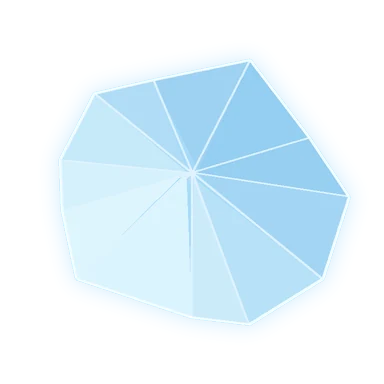
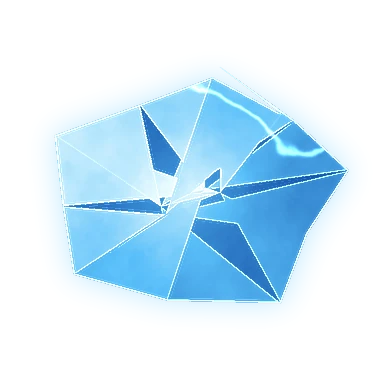
Add files via upload

diff --git a/games/삼국장기/js/skills-new-v14.js b/games/삼국장기/js/skills-new-v14.js
@@ -21,6 +21,36 @@
   ['sparks', 'glow_o', 'glow_b', 'glow_y', 'glow_p', 'shock_o', 'shock_b', 'shock_y', 'shock_p', 'bolt_b', 'bolt_y', 'bolt_p', 'flame_o', 'vignette'].forEach(n => L(n, 'v2_' + n));
   ['ice', 'rock', 'ribbon', 'softflash', 'fissure', 'net'].forEach(n => L(n, 'wl_' + n)); L('billow', 'fx_billow'); L('vapor', 'fx_vapor'); L('fireball', 'fx_fireball'); L('frost', 'env_frost'); L('firewall', 'ult_firewall');
   const ok = im => !!im && (im.tagName === 'CANVAS' ? im.width > 0 : (im.complete && im.naturalWidth > 0));
+  /* ---------- 영상 장면 (사용자 제공 GIF 5개 → 묶음 webp, 원본 3초 · 장면 사이는 부드럽게 섞음) ----------
+   *  cine_*      : 영상 컷인 창용(불투명)       cine_*_glow : 판 위에 겹치는 용(어두운 부분 투명, 빛나는 부분만) */
+  const CLIP = { wasteland: [15, 448, 252], dragon: [20, 448, 252], stormsky: [15, 448, 252], tornado: [15, 448, 252], ice: [20, 448, 252], wasteland_glow: [15, 384, 216], tornado_glow: [15, 384, 216] }, CLEN = 3.0;
+  Object.keys(CLIP).forEach(k => { const i = new Image(); i.decoding = 'async'; i.src = 'assets/images/fx/cine_' + k + '.webp'; CLIP[k].push(i); });
+  /* 게임 시작 후 한가할 때 영상 그림을 미리 풀고 한 번 그려 두어 첫 재생 끊김을 막음 (메모리가 적은 폰은 생략) */
+  setTimeout(() => { if (window.jgPerf && window.jgPerf.lowMem) return; const tiny = document.createElement('canvas'); tiny.width = tiny.height = 2; const tg = tiny.getContext('2d'); Object.keys(CLIP).forEach((k, n) => setTimeout(() => { const i = CLIP[k][3]; const warm = () => { try { tg.drawImage(i, 0, 0, 2, 2); } catch (e) {} }; try { (i.decode ? i.decode() : Promise.resolve()).then(warm, warm); } catch (e) {} }, n * 400)); }, 3500);
+  function clip(g, key, ct, x, y, w, h, a, glowMode) {
+    const c = CLIP[key]; if (!c || a <= .004) return; const [n, FW, FH, im] = c; if (!ok(im)) return;
+    const f = clamp(ct / CLEN * n, 0, n - 1.001), f0 = Math.floor(f), f1 = Math.min(n - 1, f0 + 1), mx = LOW() ? 0 : f - f0, sx = k => (k % 5) * FW, sy = k => ((k / 5) | 0) * FH;
+    g.save();
+    if (glowMode) { g.globalCompositeOperation = 'lighter'; g.globalAlpha = clamp(a * (1 - mx), 0, 1); g.drawImage(im, sx(f0), sy(f0), FW, FH, x, y, w, h); if (mx > .02) { g.globalAlpha = clamp(a * mx, 0, 1); g.drawImage(im, sx(f1), sy(f1), FW, FH, x, y, w, h); } }
+    else { g.globalAlpha = clamp(a, 0, 1); g.drawImage(im, sx(f0), sy(f0), FW, FH, x, y, w, h); if (mx > .02) { g.globalAlpha = clamp(a * mx, 0, 1); g.drawImage(im, sx(f1), sy(f1), FW, FH, x, y, w, h); } }
+    g.restore();
+  }
+  /* 영상 컷인 창: 진영 위에 떠올라 재생되다가 착탄 순간 터지며 사라짐 */
+  function cinePanel(g, M, st, t, tIn, tOut, rgb, draw, burst) {
+    const inQ = outBack(kk(t, tIn, tIn + .3)), outQ = kk(t, tOut, tOut + .28), vis = smooth(kk(t, tIn, tIn + .15)) * (1 - smooth(outQ)); if (vis <= .004) { if (outQ >= 1 && !st.pb) { st.pb = 1; } return; }
+    const W = M.W, H = M.H, pw = Math.min(W * .94, M.camp.w * 1.18), ph = pw * 9 / 16, cx = M.cx, cy = clamp(M.cy, ph / 2 + H * .09, H - ph / 2 - H * .09);
+    /* 화면 어둡게 + 위아래 시네마 띠 */
+    g.save(); g.fillStyle = `rgba(0,0,0,${.5 * vis})`; g.fillRect(0, 0, W, H); const bh = H * .085 * vis; g.fillStyle = '#000'; g.fillRect(0, 0, W, bh); g.fillRect(0, H - bh, W, bh); g.fillStyle = `rgba(${rgb},${.9 * vis})`; g.fillRect(0, bh - 2, W, 2); g.fillRect(0, H - bh, W, 2); g.restore();
+    g.save(); g.translate(cx, cy); g.rotate(-.03 + .03 * (1 - inQ)); const sc = (.78 + .22 * inQ) * (1 + .22 * outQ); g.scale(sc, sc); g.globalAlpha = vis;
+    g.save(); g.beginPath(); g.rect(-pw / 2, -ph / 2, pw, ph); g.clip(); g.fillStyle = '#000'; g.fillRect(-pw / 2, -ph / 2, pw, ph);
+    const kb = 1.04 + .08 * kk(t, tIn, tOut); draw(g, -pw * kb / 2, -ph * kb / 2, pw * kb, ph * kb);
+    if (outQ > 0) { g.fillStyle = `rgba(255,255,255,${.8 * Math.sin(outQ * Math.PI)})`; g.fillRect(-pw / 2, -ph / 2, pw, ph); }
+    g.restore();
+    /* 테두리: 진영 색 이중선 + 빛 */
+    g.lineJoin = 'round'; g.strokeStyle = `rgba(${rgb},1)`; g.lineWidth = 3; g.strokeRect(-pw / 2, -ph / 2, pw, ph); g.globalCompositeOperation = 'lighter'; g.strokeStyle = `rgba(${rgb},.35)`; g.lineWidth = 12; g.strokeRect(-pw / 2, -ph / 2, pw, ph); g.restore();
+    if (outQ > 0 && !st.pb) { st.pb = 1; burst && burst(cx, cy, pw, ph); }
+  }
+
   const tc = {}; function tint(img, key, rgb, a) { const id = key + '|' + rgb + '|' + a; if (tc[id]) return tc[id]; if (!ok(img)) return img; const c = document.createElement('canvas'); c.width = img.naturalWidth || img.width; c.height = img.naturalHeight || img.height; const g = c.getContext('2d'); g.drawImage(img, 0, 0); g.globalCompositeOperation = 'source-atop'; g.fillStyle = `rgba(${rgb},${a})`; g.fillRect(0, 0, c.width, c.height); return (tc[id] = c); }
 
   /* ---------- 소리 ---------- */
@@ -57,23 +87,38 @@
   const SC = {
     /* 🔥 화룡 강림 */
     nuke: { end: 4.6, impact: 1.15, dmg: 'burn',
+      /* 영상 컷인: 화산 황무지 → 불 뿜는 용 (착탄 순간 터짐) */
+      top(g, t, dt, M, st) {
+        cinePanel(g, M, st, t, 0, 1.0, '255,140,50', (gg, x, y, w, h) => { const xf = smooth(kk(t, .15, .45)); clip(gg, 'wasteland', .9 + t * 1.2, x, y, w, h, 1 - xf); clip(gg, 'dragon', .35 + t * 1.9, x, y, w, h, xf); },
+          (cx, cy, pw, ph) => { for (let i = 0; i < 36; i++) sp(st.P, { kind: 'spark', cell: pick([0, 6, 7]), x: cx + rnd(-.5, .5) * pw, y: cy + rnd(-.5, .5) * ph, vx: rnd(-1, 1) * M.S * .7, vy: rnd(-1, .3) * M.S * .6, ay: M.S * .8, size: M.S * rnd(.012, .03), life: rnd(.6, 1.2), rgb: pick(['255,150,60', '255,210,120']) }); noise(.6, 'lowpass', 2400, 120, .2); });
+      },
       frame(g, t, dt, M, st) {
         const C = M.camp, S = M.S, out = 1 - smooth(kk(t, 3.9, 4.6));
+        /* 영상의 용암 균열이 진영 위로 번지고 터짐 (어두운 부분은 투명) */
+        if (t > 1.0) { const a = smooth(kk(t, 1.0, 1.4)) * out, wv = C.w * 1.32, hv = Math.max(wv * 9 / 16, C.h * 1.25), ry = C.y0 + C.h / 2 - hv / 2, ct = .95 + (t - 1.0) * .85, x0 = C.x0 + C.w / 2 - wv / 2; clip(g, 'wasteland_glow', ct, x0, ry, wv, hv, a, true); if (!LOW()) clip(g, 'wasteland_glow', ct, x0, ry, wv, hv, a * .7, true); glow(g, 'glow_o', M.cx, M.cy, S * 1.2, .25 * a); }
         wash(g, M, '30,6,0', .4 * smooth(kk(t, 0, .4)) * out); vig(g, M, '255,90,20', .5 * out);
         /* 용의 경로: 하늘 위에서 S자로 휘감아 내려와 진영을 가로지름 */
         const path = u => { const x = M.br.left + M.br.width * (1.15 - 1.3 * u), y = C.y0 + C.h * (.5 + .35 * Math.sin(u * 5.5)) - (1 - smooth(kk(u, 0, .35))) * M.H * .6; return [x, y]; };
-        const hr = clamp((t - .1) / 2.6, 0, 1.2), head = hr + .075 * Math.sin(Math.min(hr, 1) * TAU), segs = LOW() ? 14 : 24;
+        const hr = clamp((t - .55) / 2.3, 0, 1.2), head = hr + .075 * Math.sin(Math.min(hr, 1) * TAU), segs = LOW() ? 14 : 24;
         if (ok(IM.scale)) for (let i = segs; i >= 1; i--) { const u = head - i * .028; if (u < 0 || u > 1.05) continue; const [x, y] = path(u), s = S * (.13 - i * .0035) * (1 + .1 * Math.sin(t * 9 + i)); img(g, IM.scale, x, y, s, s, out, t * 3 + i, i % 3 === 0); if (i % 4 === 0 && Math.random() < .5) sp(st.P, { kind: 'spark', cell: pick([0, 6, 7]), x, y, vx: rnd(-40, 40), vy: -rnd(30, 120), size: S * rnd(.012, .028), life: rnd(.6, 1.2), rgb: '255,150,60' }); }
         if (head <= 1.05 && ok(IM.dragonhead)) { const [x, y] = path(head), [x2, y2] = path(Math.max(0, head - .02)), ang = Math.atan2(y - y2, x - x2), z = S * .56; glow(g, 'glow_o', x, y, z * 1.6, .7 * out); g.save(); g.translate(x, y); g.rotate(ang); if (Math.cos(ang) < 0) g.scale(1, -1); g.globalAlpha = out; g.drawImage(IM.dragonhead, -z * .62, -z * .4, z, z * .667); g.restore();
           /* 화염 브레스: 진영을 향해 */
           if (t > .85 && t < 2.6) { const bx = x + Math.cos(ang) * z * .45, by = y + Math.sin(ang) * z * .3, ta = Math.atan2(C.y0 + C.h * .55 - by, (M.cx + (x - M.cx) * .2) - bx); for (let i = 0; i < (LOW() ? 2 : 4); i++) sp(st.P, { kind: 'billow', cell: (Math.random() * 4) | 0, x: bx, y: by, vx: Math.cos(ta + rnd(-.25, .25)) * S * rnd(.7, 1.2), vy: Math.sin(ta + rnd(-.25, .25)) * S * rnd(.7, 1.2), drag: .96, size: S * rnd(.07, .13), grow: 1.3, life: rnd(.55, .9), a: .7, rgb: pick(['255,150,40', '255,90,20', '255,190,90']), add: true });
             if (Math.random() < .6) st.burnPts.push([bx + Math.cos(ta) * S * .6, by + Math.sin(ta) * S * .6]); } }
-        if (ok(IM.firewall) && t > 1.0) { const a = smooth(kk(t, 1.0, 1.3)) * (1 - smooth(kk(t, 2.8, 3.8))); g.save(); g.beginPath(); g.rect(C.x0, C.y0 - C.h * .5, C.w, C.h * 1.5); g.clip(); g.globalCompositeOperation = 'lighter'; g.globalAlpha = a * .9; const off = (t * 220) % C.w; g.drawImage(IM.firewall, C.x0 - off, C.y0 + C.h * .25, C.w, C.h * .75); g.drawImage(IM.firewall, C.x0 - off + C.w, C.y0 + C.h * .25, C.w, C.h * .75); g.restore(); }
+        if (ok(IM.firewall) && t > 1.0) { const a = .6 * smooth(kk(t, 1.0, 1.3)) * (1 - smooth(kk(t, 2.8, 3.8))); g.save(); g.beginPath(); g.rect(C.x0, C.y0 - C.h * .5, C.w, C.h * 1.5); g.clip(); g.globalCompositeOperation = 'lighter'; g.globalAlpha = a * .9; const off = (t * 220) % C.w; g.drawImage(IM.firewall, C.x0 - off, C.y0 + C.h * .25, C.w, C.h * .75); g.drawImage(IM.firewall, C.x0 - off + C.w, C.y0 + C.h * .25, C.w, C.h * .75); g.restore(); }
         if (t > this.impact) { const q = t - this.impact; flash(g, M.cx, M.cy, S * 2.4, '255,170,80', (1 - smooth(kk(q, 0, .5))) * 1.1); shock(g, 'shock_o', M.cx, M.cy, S * 1.6, kk(q, 0, 1.1), .9, .55); if (ok(IM.fireball)) { const fs = S * (.3 + .4 * outCubic(kk(q, 0, .8))), f = Math.min(7, (kk(q, 0, 1.4) * 8) | 0); g.save(); g.globalAlpha = 1 - smooth(kk(q, 1.0, 1.6)); g.drawImage(IM.fireball, (f % 4) * 256, ((f / 4) | 0) * 256, 256, 256, M.cx - fs / 2, M.cy - fs * .6, fs, fs); g.restore(); } }
       } },
     /* ⛈ 뇌신 폭풍 */
     meteor: { end: 5.4, impact: 1.5, dmg: 'lichten',
+      /* 영상 컷인: 폭풍 하늘에 번개 → 번개 토네이도 (삼중 낙뢰와 함께 터짐) */
+      top(g, t, dt, M, st) {
+        cinePanel(g, M, st, t, 0, 1.3, '170,200,255', (gg, x, y, w, h) => { const xf = smooth(kk(t, .75, 1.05)); clip(gg, 'stormsky', t * 1.55, x, y, w, h, 1 - xf); clip(gg, 'tornado', .5 + (t - .75) * 1.6, x, y, w, h, xf); const lt = kk(t, .38, .6); if (lt > 0 && lt < 1) { gg.save(); gg.globalCompositeOperation = 'lighter'; gg.fillStyle = `rgba(200,215,255,${.45 * Math.sin(lt * Math.PI)})`; gg.fillRect(x, y, w, h); gg.restore(); } },
+          (cx, cy, pw, ph) => { for (let i = 0; i < 30; i++) sp(st.P, { kind: 'spark', cell: pick([3, 4, 5]), x: cx + rnd(-.5, .5) * pw, y: cy + rnd(-.5, .5) * ph, vx: rnd(-1, 1) * M.S * .8, vy: rnd(-1, .4) * M.S * .6, ay: M.S, size: M.S * rnd(.01, .026), life: rnd(.5, 1), rgb: '190,215,255' }); });
+        if (t > .38 && !st.pl) { st.pl = 1; noise(.35, 'highpass', 5000, 800, .12); tone('sawtooth', 140, 40, .7, .08); }
+      },
       frame(g, t, dt, M, st) {
+        /* 영상의 번개 토네이도가 진영 한가운데 솟음 (어두운 부분은 투명) */
+        if (t > 1.25) { const C2 = M.camp, a = smooth(kk(t, 1.25, 1.7)) * (1 - smooth(kk(t, 4.2, 5.0))), wv = C2.w * 1.25, hv = wv * 9 / 16 * 1.7, x = C2.x0 + C2.w / 2 - wv / 2 + Math.sin(t * 1.3) * C2.w * .04, y = C2.y0 + C2.h * 1.0 - hv, ct = .6 + (t - 1.25) * .8; glow(g, 'glow_b', x + wv / 2, y + hv * .55, M.S * 1.1, .35 * a); clip(g, 'tornado_glow', ct, x, y, wv, hv, a, true); if (!LOW()) clip(g, 'tornado_glow', ct, x, y, wv, hv, a * .75, true); }
         const C = M.camp, S = M.S, out = 1 - smooth(kk(t, 4.6, 5.4));
         wash(g, M, '6,8,24', .55 * smooth(kk(t, 0, .5)) * out); vig(g, M, '90,120,255', .45 * out);
         if (ok(IM.billow)) for (let i = 0; i < (LOW() ? 5 : 9); i++) { const u = ((i * .137 + t * .03) % 1.2) - .1, x = M.br.left + M.br.width * u, y = M.br.top + S * (.04 + .05 * Math.sin(i * 1.7 + t)), z = S * (.45 + .2 * Math.sin(i)); g.save(); g.globalAlpha = .85 * smooth(kk(t, 0, .6)) * out; g.drawImage(tint(IM.billow, 'st', '40,40,70', .85), (i % 4) * 256, 0, 256, 256, x - z / 2, y - z / 2, z, z); g.restore(); }
@@ -102,14 +147,21 @@
           flash(g, M.cx, M.cy, S * 2.2, '255,150,70', (1 - smooth(kk(q, 0, .5))) * .9); shock(g, 'shock_o', M.cx, M.cy, S * 1.9, kk(q, 0, 1.1), .85, .5); }
       } },
     /* 🧊 빙하 붕괴 (원본 함수를 대체하므로 피해 시각을 직접 정함) */
-    vortex: { end: 3.8, impact: 1.25, dmg: 'ice', own: true, hits: [[1.25, .5, .5], [1.55, .3, .55], [1.75, .7, .45]],
+    vortex: { end: 4.3, impact: 1.7, dmg: 'ice', own: true, hits: [[1.7, .5, .5], [2.0, .3, .55], [2.2, .7, .45]],
+      /* 영상 컷인: 운석과 빙하 (빙하가 떨어지기 직전 얼음 조각으로 깨짐) */
+      top(g, t, dt, M, st) {
+        cinePanel(g, M, st, t, 0, 1.05, '160,225,255', (gg, x, y, w, h) => clip(gg, 'ice', .25 + t * 1.9, x, y, w, h, 1),
+          (cx, cy, pw, ph) => { for (let i = 0; i < (LOW() ? 18 : 34); i++) sp(st.P, { kind: 'ice', cell: (Math.random() * 4) | 0, x: cx + rnd(-.5, .5) * pw, y: cy + rnd(-.5, .5) * ph, vx: rnd(-1, 1) * M.S * .8, vy: rnd(-1, .5) * M.S * .7, ay: M.S * 1.6, size: M.S * rnd(.04, .09), life: rnd(.7, 1.3), rgb: '190,232,255', rot: rnd(0, TAU), vr: rnd(-8, 8) }); tone('sine', 1200, 300, .5, .08); noise(.5, 'highpass', 7000, 1500, .14); });
+      },
       frame(g, t, dt, M, st) {
-        const C = M.camp, S = M.S, out = 1 - smooth(kk(t, 3.1, 3.8));
+        const C = M.camp, S = M.S, out = 1 - smooth(kk(t, 3.6, 4.3));
         wash(g, M, '4,16,40', .45 * smooth(kk(t, 0, .4)) * out); vig(g, M, '120,200,255', .5 * out);
         if (ok(IM.frost)) { const fz = smooth(kk(t, .1, .9)) * out; g.save(); g.globalCompositeOperation = 'lighter'; g.globalAlpha = .18 * fz; g.drawImage(IM.frost, M.br.left, M.br.top, M.br.width, M.br.height); g.restore(); }
-        const fq = kk(t, .2, this.impact), gx = M.cx, gy = M.cy, z = S * .75;
-        if (t < this.impact + .05 && ok(IM.glacier)) { const y0 = Math.max(M.br.top - z * .3, gy - S * 1.1), y = y0 + (gy - y0) * fq * fq; { const sh = .25 + .75 * fq; g.save(); g.globalAlpha = .45 * fq; g.fillStyle = '#0a1a30'; g.beginPath(); g.ellipse(gx, gy + z * .1, z * .5 * sh, z * .16 * sh, 0, 0, TAU); g.fill(); g.restore(); } g.save(); g.translate(gx, y - z * .2); g.rotate(fq * .6); g.drawImage(IM.glacier, -z / 2, -z / 2, z, z); g.restore(); ribbon(g, gx, y - z, gx, y, z * .6, '200,235,255', .35 * fq); if (Math.random() < .5) sp(st.P, { kind: 'ice', cell: (Math.random() * 4) | 0, x: gx + rnd(-z * .3, z * .3), y: y, vx: rnd(-50, 50), vy: -rnd(20, 80), size: S * rnd(.02, .04), life: .6, rgb: '200,235,255' }); }
-        if (t > this.impact) { const q = t - this.impact; if (!st.d) { st.d = 1; for (let i = 0; i < (LOW() ? 24 : 44); i++) sp(st.P, { kind: 'ice', cell: (Math.random() * 4) | 0, x: gx, y: gy, vx: rnd(-1, 1) * S * 1.0, vy: -rnd(.2, 1.1) * S, ay: S * 1.8, size: S * rnd(.05, .12), life: rnd(1, 1.8), rgb: '190,230,255', rot: rnd(0, TAU), vr: rnd(-6, 6) }); for (let i = 0; i < 10; i++) sp(st.P, { kind: 'billow', cell: i % 4, x: gx + rnd(-.3, .3) * C.w, y: gy, vx: rnd(-120, 120), vy: -rnd(10, 50), size: S * rnd(.18, .3), grow: 1.2, life: 2.2, rgb: '225,245,255', add: false }); tone('sine', 300, 60, .8, .14); noise(.9, 'highpass', 6000, 800, .18); }
+        const fq = kk(t, 1.0, this.impact), gx = M.cx, gy = M.cy, z = S * .56;
+        /* 첨부 영상처럼 푸른 꼬리를 단 얼음 운석이 비스듬히 쏟아짐 */
+        { const n = LOW() ? 4 : 8; for (let i = 0; i < n; i++) { const h1 = Math.sin(i * 77.7) * 43758.5 % 1, h = Math.abs(h1), t0 = .85 + i * .09, q = kk(t, t0, t0 + .55); if (q <= 0 || q >= 1) continue; const ex = C.x0 + C.w * (.1 + .8 * ((i * .618) % 1)), ey = C.y0 + C.h * (.25 + .6 * h), sx2 = ex + S * .55, sy2 = ey - S * .95, x = sx2 + (ex - sx2) * q * q, y = sy2 + (ey - sy2) * q * q, tl = S * .32; ribbon(g, x + tl * .5, y - tl * .86, x, y, S * .045, '150,215,255', .85); glow(g, 'glow_b', x, y, S * .16, .9); if (ok(IM.ice)) { const zc = S * .075; g.save(); g.translate(x, y); g.rotate(t * 6 + i); g.drawImage(tint(IM.ice, 'cm', '210,240,255', .3), (i % 4) * 128, 0, 128, 128, -zc / 2, -zc / 2, zc, zc); g.restore(); } if (q > .9 && !st['c' + i]) { st['c' + i] = 1; for (let k = 0; k < 6; k++) sp(st.P, { kind: 'ice', cell: k % 4, x: ex, y: ey, vx: rnd(-1, 1) * S * .35, vy: -rnd(.1, .5) * S, ay: S * 1.4, size: S * rnd(.02, .045), life: .7, rgb: '190,232,255' }); } } }
+        if (t < this.impact + .05 && t > .95 && ok(IM.glacier)) { const y0 = Math.max(M.br.top - z * .3, gy - S * 1.1), y = y0 + (gy - y0) * fq * fq; { const sh = .25 + .75 * fq; g.save(); g.globalAlpha = .45 * fq; g.fillStyle = '#0a1a30'; g.beginPath(); g.ellipse(gx, gy + z * .1, z * .5 * sh, z * .16 * sh, 0, 0, TAU); g.fill(); g.restore(); } g.save(); g.translate(gx, y - z * .2); g.rotate(fq * .6); g.drawImage(IM.glacier, -z / 2, -z / 2, z, z); g.restore(); ribbon(g, gx, y - z, gx, y, z * .6, '200,235,255', .35 * fq); if (Math.random() < .5) sp(st.P, { kind: 'ice', cell: (Math.random() * 4) | 0, x: gx + rnd(-z * .3, z * .3), y: y, vx: rnd(-50, 50), vy: -rnd(20, 80), size: S * rnd(.02, .04), life: .6, rgb: '200,235,255' }); }
+        if (t > this.impact) { const q = t - this.impact; if (!st.d) { st.d = 1; for (let i = 0; i < (LOW() ? 24 : 44); i++) sp(st.P, { kind: 'ice', cell: (Math.random() * 4) | 0, x: gx, y: gy, vx: rnd(-1, 1) * S * 1.0, vy: -rnd(.2, 1.1) * S, ay: S * 1.8, size: S * rnd(.05, .12), life: rnd(1, 1.8), rgb: '190,230,255', rot: rnd(0, TAU), vr: rnd(-6, 6) }); for (let i = 0; i < 7; i++) sp(st.P, { kind: 'billow', cell: i % 4, x: gx + rnd(-.3, .3) * C.w, y: gy, vx: rnd(-120, 120), vy: -rnd(10, 50), size: S * rnd(.16, .26), grow: 1.1, life: 1.6, a: .42, rgb: '225,245,255', add: false }); tone('sine', 300, 60, .8, .14); noise(.9, 'highpass', 6000, 800, .18); }
           flash(g, gx, gy, S * 2.4, '220,240,255', (1 - smooth(kk(q, 0, .45))) * 1.2); shock(g, 'shock_b', gx, gy, S * 2.0, kk(q, 0, 1.1), .9, .55); if (ok(IM.vapor)) img(g, IM.vapor, gx, gy, S * (.4 + 2.2 * outCubic(kk(q, 0, 1))), S * (.4 + 2.2 * outCubic(kk(q, 0, 1))) * .36, (1 - smooth(kk(q, .3, 1.2))) * .8, 0, true); }
       } }
   };
@@ -185,6 +237,8 @@
       g.setTransform(dpr, 0, 0, dpr, 0, 0); g.clearRect(0, 0, M.W, M.H);
       try { scn.frame(g, t, dt, M, st); } catch (e) { console.warn('n14', e); }
       stepPT(st.P, g, dt);
+      if (window.jgPieceMask) window.jgPieceMask.carveLines(g);
+      if (scn.top) try { scn.top(g, t, dt, M, st); } catch (e) { console.warn('n14top', e); }   /* 영상 컷인 창은 선 위에 */
       if (cvB && st.shake > .3) cvB.style.transform = `translate3d(${(Math.sin(t * 70) * st.shake).toFixed(1)}px,${(Math.cos(t * 61) * st.shake).toFixed(1)}px,0)`; else if (cvB && cvB.style.transform) cvB.style.transform = '';
       if (t < scn.end || N14.debugT != null) requestAnimationFrame(frame); else cleanup();
     }

diff --git a/games/삼국장기/js/piece-mask.js b/games/삼국장기/js/piece-mask.js
@@ -10,6 +10,28 @@
   const M = window.jgPieceMask = { strength: 1, enabled: true };
   const hole = document.createElement('canvas'); hole.width = hole.height = 96;
   (function () { const g = hole.getContext('2d'), gr = g.createRadialGradient(48, 48, 0, 48, 48, 48); gr.addColorStop(0, 'rgba(0,0,0,1)'); gr.addColorStop(.58, 'rgba(0,0,0,1)'); gr.addColorStop(.8, 'rgba(0,0,0,.55)'); gr.addColorStop(1, 'rgba(0,0,0,0)'); g.fillStyle = gr; g.fillRect(0, 0, 96, 96); })();
+  /* 장기판 선 지키기: 효과층에서 격자선(가로 10·세로 9·궁성 대각선) 자리만 얇게 지워, 아래 판의 선이 항상 또렷하게 보이게 함.
+   *  기물은 판 캔버스에서 선 위에 그려지므로 그대로 선 위에 남음.  끄기: jgPieceMask.lines = false */
+  M.lines = true; let LP = null, LK = '';
+  M.carveLines = function (g) {
+    if (!M.lines || !g) return;
+    try {
+      if (typeof px !== 'function' || typeof CX !== 'number' || CX < 5) return;
+      const cvB = document.getElementById('cv'); if (!cvB) return;
+      const rc = cvB.getBoundingClientRect(), cr = g.canvas.getBoundingClientRect(); if (!cr.width || !rc.width) return;
+      const sx = g.canvas.width / cr.width, sy = g.canvas.height / cr.height;
+      const key = [rc.left, rc.top, rc.width, rc.height, OX, OY, CX, CY, (typeof flip !== 'undefined' && flip) ? 1 : 0].map(v => Math.round(v * 4)).join();
+      if (key !== LK) {
+        LK = key; LP = new Path2D(); const P = (x, y) => { const p = px(x, y); return [rc.left + p[0], rc.top + p[1]]; }, seg = (a, b) => { LP.moveTo(a[0], a[1]); LP.lineTo(b[0], b[1]); };
+        for (let x = 0; x < 9; x++) seg(P(x, 0), P(x, 9));
+        for (let y = 0; y < 10; y++) seg(P(0, y), P(8, y));
+        [[3, 0, 5, 2], [5, 0, 3, 2], [3, 7, 5, 9], [5, 7, 3, 9]].forEach(([a, b, c, d]) => seg(P(a, b), P(c, d)));
+      }
+      const w = Math.max(1.6, Math.min(CX, CY) * .05);
+      g.save(); g.setTransform(sx, 0, 0, sy, -cr.left * sx, -cr.top * sy); g.globalCompositeOperation = 'destination-out'; g.lineCap = 'round';
+      g.globalAlpha = .45; g.lineWidth = w * 2.8; g.stroke(LP); g.globalAlpha = 1; g.lineWidth = w; g.stroke(LP); g.restore();
+    } catch (e) {}
+  };
   M.carve = function (g, rc, k) {
     if (!M.enabled || M.strength <= 0) return;
     try {

diff --git a/games/삼국장기/js/warlord-ultimate-v11.js b/games/삼국장기/js/warlord-ultimate-v11.js
@@ -253,7 +253,7 @@
       if (ta >= -.05) { const sh = punch > .01 ? punch * M.S * .012 : 0; g.save(); if (sh) g.translate(Math.sin(ptime * 60) * sh, Math.cos(ptime * 53) * sh);
         for (const e of tears) { const q = smooth(kk(ta, e.t0, e.t0 + .3)), a = 1 - smooth(kk(ta, sc0.dur - .8, sc0.dur - .2)); if (q > 0 && a > .01) window.jgTear.draw(g, e.cut, q, a, e.rgb, ta); }
         try { sc0.frame(g, Math.max(0, ta), dt, M, st); } catch (e) { console.warn('ult11', e); }
-        stepPT(st.P, g, dt); g.restore();
+        stepPT(st.P, g, dt); g.restore(); if (window.jgPieceMask) window.jgPieceMask.carveLines(g);   /* 판 위 공격만 선을 비움(컷인·도장은 그대로) */
         /* 피해 처리 */
         while (hitI < sc0.hits.length && ta >= sc0.hits[hitI][0]) { const h = sc0.hits[hitI++]; try { if (typeof window.hitCamp === 'function' && !U.noHit && (!LOW() || hitI === 2)) window.hitCamp(V, 'warlord_' + w.id, { fx: h[1], fy: h[2], rot: (rn() - .5) * .3 }); } catch (e) {} if (hitI === 2) { try { if (typeof window.hitScreen === 'function' && Q() >= .6) window.hitScreen(V, 'warlord', h[1], h[2], 0, true); } catch (e) {} } punch = hitI === 2 ? 1.2 : .7; ptime = 0; if (hitI === 2) st.if0 = ta; try { navigator.vibrate && navigator.vibrate(hitI === 2 ? [80, 40, 160] : 40); } catch (e) {} if (hitI === 2) { tone('sine', 80, 30, 1.4, .3); noise(1.2, 'lowpass', 1500, 80, .24); } }
         /* 필살 도장 */

diff --git a/games/삼국장기/js/test-board-v17.js b/games/삼국장기/js/test-board-v17.js
@@ -14,7 +14,7 @@
 
   /* ---------- 새로 추가된 항목 (새 연출을 넣으면 여기에 추가) ---------- */
   const NEW = [
-    ['🔥 화룡 강림', () => fire('nuke')], ['⛈ 뇌신 폭풍', () => fire('meteor')], ['🌋 대지 분쇄', () => fire('kame2')], ['🧊 빙하 붕괴', () => fire('vortex')],
+    ['🎬 화룡 강림 (영상)', () => fire('nuke')], ['🎬 뇌신 폭풍 (영상)', () => fire('meteor')], ['🎬 빙하 붕괴 (영상)', () => fire('vortex')], ['📏 선 확인: 눈보라', () => { window.pickRandomBoard(1); setTimeout(() => window.jgEnv3.weatherNow(7), 500); }], ['📏 선 확인: 모래폭풍', () => { window.pickRandomBoard(0); setTimeout(() => window.jgEnv3.weatherNow(0), 500); }], ['🌋 대지 분쇄', () => fire('kame2')],
     ['🎨 속성 자국 7종', () => allDecals()], ['💥 임팩트 컷(필살기)', () => ult('lvbu')], ['🌸 유비 꽃잎 자국', () => ult('liubei')],
     ['🎯 이동 표시(차 선택)', () => selectDemo()], ['🏯 장기판 꾸밈 순환', () => cycleMaps()], ['⚔ 잡기 연출', () => captureDemo()], ['🤺 일기토', () => duel()]
   ];

diff --git a/games/삼국장기/js/board-env-v5.js b/games/삼국장기/js/board-env-v5.js
@@ -362,7 +362,7 @@
     for (let i = FXL.length - 1; i >= 0; i--) { const f = FXL[i], age = (tn - f.t0) / 1000, k = age / f.life; if (k >= 1) { FXL.splice(i, 1); continue; } go.save(); try { f.fn(go, k, age); } catch (e) { FXL.splice(i, 1); } go.restore(); }
     if (flashA > .01) { go.globalCompositeOperation = 'lighter'; go.globalAlpha = flashA; if (ok(IM.vignette)) go.drawImage(tinted(IM.vignette, 'vg', flashRGB, 1), RC.left, RC.top, RC.width, RC.height); go.fillStyle = `rgba(${flashRGB},${flashA * .3})`; go.globalAlpha = 1; go.fillRect(RC.left, RC.top, RC.width, RC.height); flashA *= Math.pow(.03, dt); }
     go.restore(); go.globalAlpha = 1; go.globalCompositeOperation = 'source-over';
-    if (window.jgPieceMask) window.jgPieceMask.carve(go, RC);
+    if (window.jgPieceMask) { window.jgPieceMask.carveLines(go); window.jgPieceMask.carve(go, RC); }
   }
   setInterval(hookGround, 1500); hookGround();
   E5.test = function (kind) { const B = BR(); const t = window.curBoardIdx || 0; if (kind === 'set') startSet(t, B); else if (kind === 'capture') onCapture(4, 4, t); };

diff --git a/games/삼국장기/js/skills-real-v8.js b/games/삼국장기/js/skills-real-v8.js
@@ -246,6 +246,7 @@
       const bl = clamp((scene.bloom || .5) * R8.bloom * 2, 0, 1);
       if (bl > .01 && (!window.jgPerf || window.jgPerf.bloomOK())) { if ((fno++ & 1) === 0) { sg.imageSmoothingQuality = 'high'; sg.clearRect(0, 0, a1, b1); sg.drawImage(ov, 0, 0, a1, b1); sg2.imageSmoothingQuality = 'high'; sg2.clearRect(0, 0, a2, b2); sg2.drawImage(sm, 0, 0, a2, b2); }
         g.setTransform(1, 0, 0, 1, 0, 0); g.globalCompositeOperation = 'lighter'; g.imageSmoothingEnabled = true; g.globalAlpha = bl * .6; g.drawImage(sm, 0, 0, pw, ph); g.globalAlpha = bl * .5; g.drawImage(sm2, 0, 0, pw, ph); g.globalAlpha = 1; g.globalCompositeOperation = 'source-over'; }
+      if (window.jgPieceMask) window.jgPieceMask.carveLines(g);
       if (t < scene.END + .4) requestAnimationFrame(frame); else cleanup();
     }
     requestAnimationFrame(frame); setTimeout(cleanup, (scene.END + 2) * 1000);

diff --git a/games/삼국장기/js/board-effects-v4.js b/games/삼국장기/js/board-effects-v4.js
@@ -887,6 +887,7 @@
     go.globalAlpha = 1;
     if (flash > .004) { const fx = flashX == null ? RC.left + RC.width / 2 : flashX, fy = flashY == null ? RC.top + RC.height / 2 : flashY; go.save(); go.globalCompositeOperation = 'lighter'; const fr = Math.max(RC.width, RC.height) * 1.1, fg = go.createRadialGradient(fx, fy, 0, fx, fy, fr); fg.addColorStop(0, `rgba(${flashCol},${Math.min(1, flash * 2.2)})`); fg.addColorStop(.35, `rgba(${flashCol},${flash * .8})`); fg.addColorStop(1, `rgba(${flashCol},${flash * .12})`); go.fillStyle = fg; go.fillRect(RC.left, RC.top, RC.width, RC.height); go.restore(); flash *= Math.pow(.02, dt / 1.6); }
     go.restore();
+    if (window.jgPieceMask) window.jgPieceMask.carveLines(go);
     if (window.jgPieceMask) window.jgPieceMask.carve(go, RC);   /* 기물 위치는 효과를 비워 가리지 않음 */
 
     /* 환경 이벤트 안내 문구 */

diff --git a/games/삼국장기/js/warlord-punish-v6.js b/games/삼국장기/js/warlord-punish-v6.js
@@ -511,6 +511,7 @@
         cvB.style.transformOrigin = `${R.tx - M.br.left}px ${R.ty - M.br.top}px`; cvB.style.transform = `translate3d(${sx.toFixed(2)}px,${sy.toFixed(2)}px,0) scale(${z.toFixed(4)})`;
         if (punch < .004) { cvB.style.transform = ''; cvB.style.transformOrigin = ''; punch = 0; }
       }
+      if (window.jgPieceMask) window.jgPieceMask.carveLines(g);
       if (t < scene.dur || W6.debugT != null) requestAnimationFrame(frame); else cleanup();
     }
     requestAnimationFrame(frame);

diff --git a/games/삼국장기/js/skill-fx-v2.js b/games/삼국장기/js/skill-fx-v2.js
@@ -387,7 +387,8 @@
     runFx(g, now, false);
     updatePT(dt);
     g.save(); drawPT(g); g.restore();
-    runFx(g, now, true);   /* 기술명 배너는 맨 위에 */
+    if (window.jgPieceMask) window.jgPieceMask.carveLines(g);   /* 판 위 효과만 선 자리를 비움 */
+    runFx(g, now, true);   /* 기술명 배너는 맨 위에(선에 잘리지 않음) */
     g.globalAlpha = 1; g.globalCompositeOperation = 'source-over';
   }
   let dirty = false;

diff --git a/games/삼국장기/js/skill-fx.js b/games/삼국장기/js/skill-fx.js
@@ -603,6 +603,7 @@
     draw(go, now);
     go.restore();
     if (flash > .004) flash *= Math.pow(.04, dt);
+    if (window.jgPieceMask) window.jgPieceMask.carveLines(go);
   }
 
   /* ---------- 훅 연결 ---------- */

diff --git a/games/삼국장기/README.md b/games/삼국장기/README.md
@@ -15,6 +15,8 @@ index.html을 열어 실행합니다. HTML, CSS, JavaScript, 이미지 자료가
 - js/board-theme-hud.js: 테마 HUD 동작
 - js/remaster-v1.js, js/remaster-v2.js, js/board-effects-v4.js: 추가 패치와 보드 효과
 - 모바일 최적화: 본판 해상도 자동 조절(휴대폰 1.5배→느리면 1.25/1.1배), 바닥 환경을 작은 오버레이로 이동, 그을음·균열 캐시, 쉬는 캔버스 클리어 생략, 예전 선 줄기 환경(remaster-v2) 중지, 컷신 중 환경 레이어 일시정지, 저사양에서 입자·블룸·큰 스프라이트 감소
+- 영상 적용(사용자 제공 GIF 5개 → assets/images/fx/cine_*.webp, 17MB→약 2MB): 화룡 강림(화산 황무지→용 컷인 + 판 위 용암 균열), 뇌신 폭풍(폭풍 하늘 번개→토네이도 컷인 + 판 위 번개 토네이도), 빙하 붕괴(빙하 컷인 + 얼음 운석·결정 빙하). *_glow 는 밝기를 투명도로 바꾼 판 위 합성용
+- 장기판 선 지키기: 환경·스킬·응징·필살기 효과층에서 격자선 자리만 비워 선이 항상 보임(기물은 선 위, 제목·컷인은 그대로). 끄기: jgPieceMask.lines=false
 - 🧪 테스트 장기판: test.html (또는 index.html?test) — 스킬·필살기·응징·환경·기물 연출을 골라 바로 재생. 새 연출은 js/test-board-v17.js 의 NEW 목록에 한 줄 추가
 - js/hook-guard.js: 여러 모듈이 같은 함수를 1~1.5초마다 서로 다시 감싸며 효과가 중복 실행되던 버그 수정(플레이할수록 느려지던 원인)
 - js/board-beauty-v15.js: 장기판 꾸밈(궁성 문양·모서리 장식·가장자리 그늘·빛 쓸림, 전장별 색). 끄기: jgBoardBeauty.enabled=false
